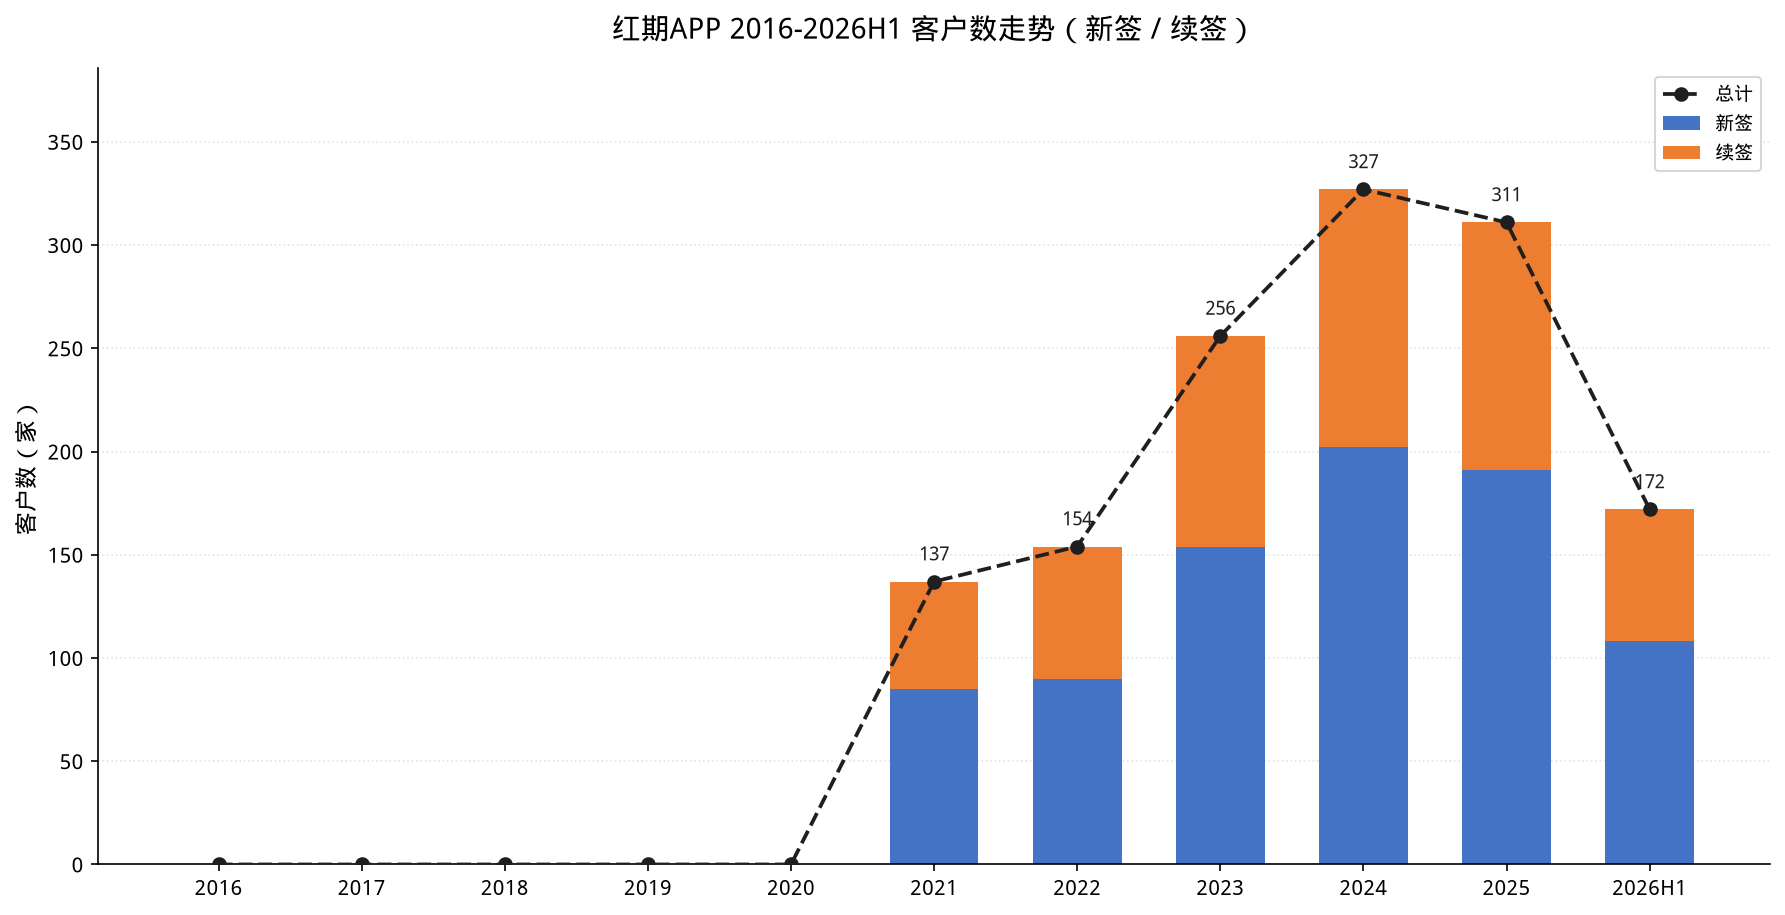
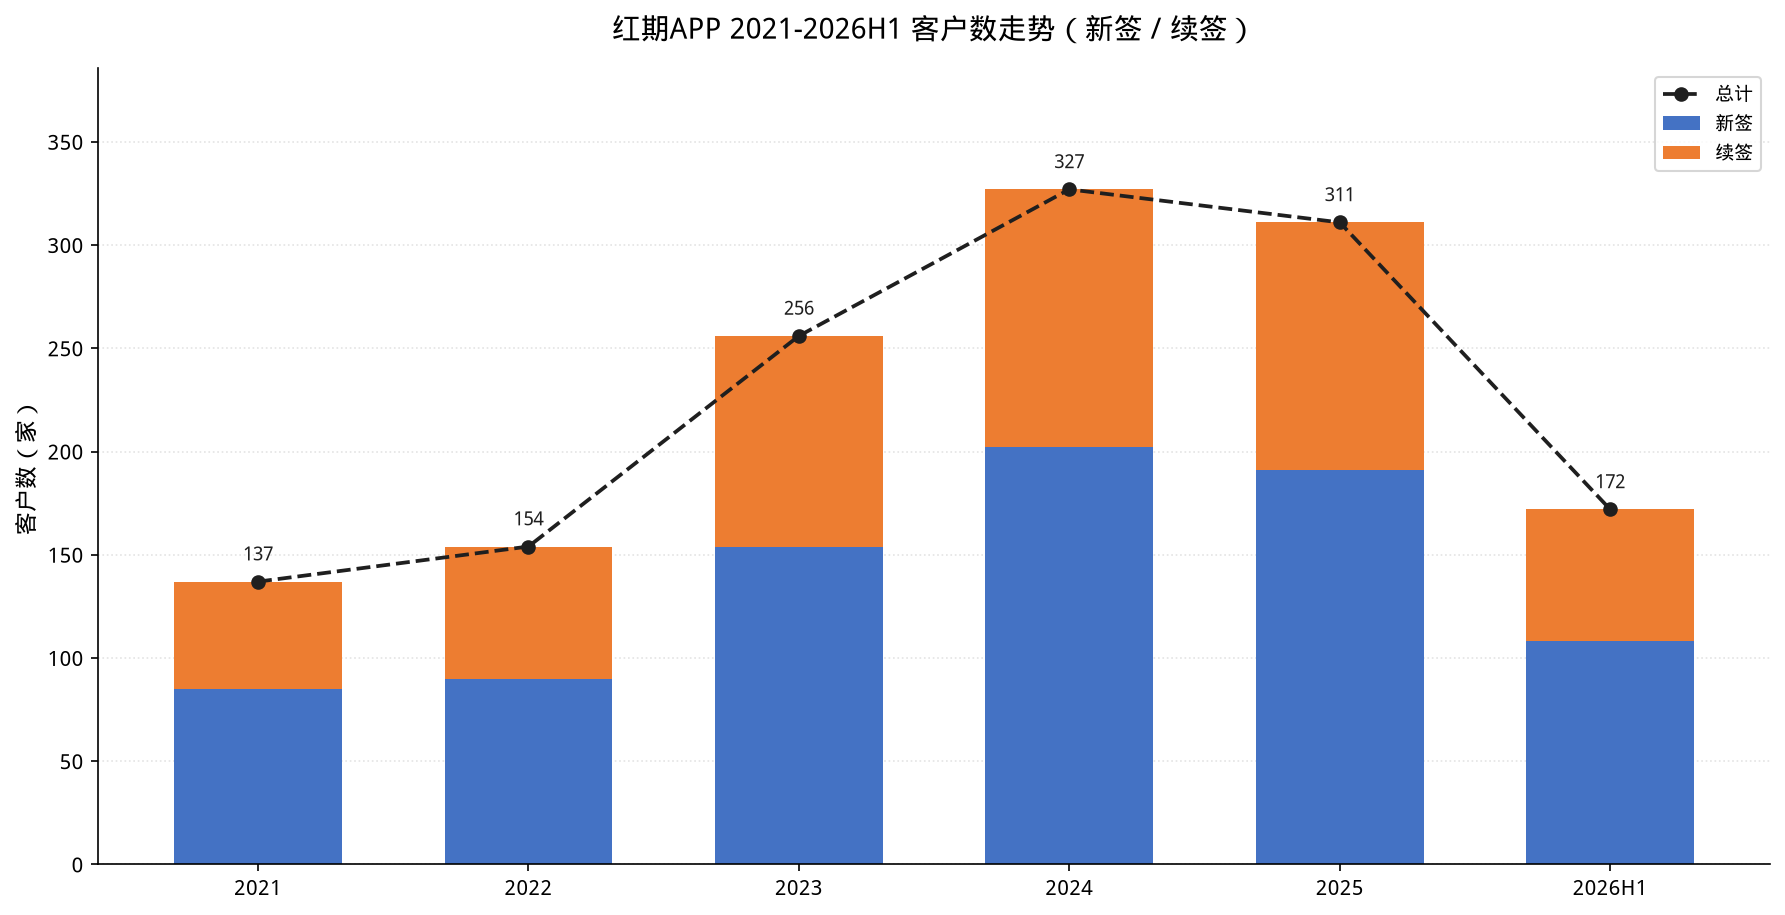
Update 红期APP charts to start from 2021

diff --git a/charts/generate_hongqi_app_charts.py b/charts/generate_hongqi_app_charts.py
@@ -1,5 +1,5 @@
 #!/usr/bin/env python3
-"""Generate 红期APP performance charts (2016-2026H1)."""
+"""Generate 红期APP performance charts (2021-2026H1)."""
 
 import matplotlib.pyplot as plt
 import matplotlib.ticker as mticker
@@ -9,10 +9,7 @@ from pathlib import Path
 plt.rcParams["font.sans-serif"] = ["WenQuanYi Micro Hei", "Droid Sans Fallback", "DejaVu Sans"]
 plt.rcParams["axes.unicode_minus"] = False
 
-YEARS = [
-    "2016", "2017", "2018", "2019", "2020", "2021",
-    "2022", "2023", "2024", "2025", "2026H1",
-]
+YEARS = ["2021", "2022", "2023", "2024", "2025", "2026H1"]
 
 COLOR_NEW = "#4472C4"
 COLOR_RENEW = "#ED7D31"
@@ -20,15 +17,14 @@ COLOR_TOTAL = "#1F1F1F"
 
 OUTPUT_DIR = Path(__file__).parent
 
-# 红期APP 2021 年上线，2016-2020 无数据
-PERF_NEW = [0, 0, 0, 0, 0, 343011.59, 248420.07, 375485.63, 495536.32, 521432.18, 253378.83]
-PERF_RENEW = [0, 0, 0, 0, 0, 447103.98, 499671.84, 456856.52, 476033.57, 361719.57, 221220.72]
+PERF_NEW = [343011.59, 248420.07, 375485.63, 495536.32, 521432.18, 253378.83]
+PERF_RENEW = [447103.98, 499671.84, 456856.52, 476033.57, 361719.57, 221220.72]
 
-CUST_NEW = [0, 0, 0, 0, 0, 85, 90, 154, 202, 191, 108]
-CUST_RENEW = [0, 0, 0, 0, 0, 52, 64, 102, 125, 120, 64]
+CUST_NEW = [85, 90, 154, 202, 191, 108]
+CUST_RENEW = [52, 64, 102, 125, 120, 64]
 
-AOV_NEW = [0, 0, 0, 0, 0, 4035.43, 2760.22, 2438.22, 2453.15, 2730.01, 2346.10]
-AOV_RENEW = [0, 0, 0, 0, 0, 8598.15, 7807.37, 4478.99, 3808.27, 3014.33, 3456.57]
+AOV_NEW = [4035.43, 2760.22, 2438.22, 2453.15, 2730.01, 2346.10]
+AOV_RENEW = [8598.15, 7807.37, 4478.99, 3808.27, 3014.33, 3456.57]
 
 
 def format_label(value: float, unit: str) -> str:
@@ -168,7 +164,7 @@ def main():
 
     charts = [
         (
-            "红期APP 2016-2026H1 业绩走势（新签 / 续签）",
+            "红期APP 2021-2026H1 业绩走势（新签 / 续签）",
             "业绩（万元）",
             PERF_NEW,
             PERF_RENEW,
@@ -177,7 +173,7 @@ def main():
             f"{prefix}_performance.png",
         ),
         (
-            "红期APP 2016-2026H1 客户数走势（新签 / 续签）",
+            "红期APP 2021-2026H1 客户数走势（新签 / 续签）",
             "客户数（家）",
             CUST_NEW,
             CUST_RENEW,
@@ -198,7 +194,7 @@ def main():
     fig, ax = plt.subplots(figsize=(12, 6.2), dpi=150)
     draw_aov_chart(
         ax,
-        "红期APP 2016-2026H1 客单价走势（新签 / 续签）",
+        "红期APP 2021-2026H1 客单价走势（新签 / 续签）",
         PERF_NEW,
         PERF_RENEW,
         CUST_NEW,
@@ -214,7 +210,7 @@ def main():
     fig, axes = plt.subplots(3, 1, figsize=(12, 16), dpi=150)
     draw_stacked_chart(
         axes[0],
-        "红期APP 2016-2026H1 业绩走势（新签 / 续签）",
+        "红期APP 2021-2026H1 业绩走势（新签 / 续签）",
         "业绩（万元）",
         PERF_NEW,
         PERF_RENEW,
@@ -223,7 +219,7 @@ def main():
     )
     draw_stacked_chart(
         axes[1],
-        "红期APP 2016-2026H1 客户数走势（新签 / 续签）",
+        "红期APP 2021-2026H1 客户数走势（新签 / 续签）",
         "客户数（家）",
         CUST_NEW,
         CUST_RENEW,
@@ -232,7 +228,7 @@ def main():
     )
     draw_aov_chart(
         axes[2],
-        "红期APP 2016-2026H1 客单价走势（新签 / 续签）",
+        "红期APP 2021-2026H1 客单价走势（新签 / 续签）",
         PERF_NEW,
         PERF_RENEW,
         CUST_NEW,
